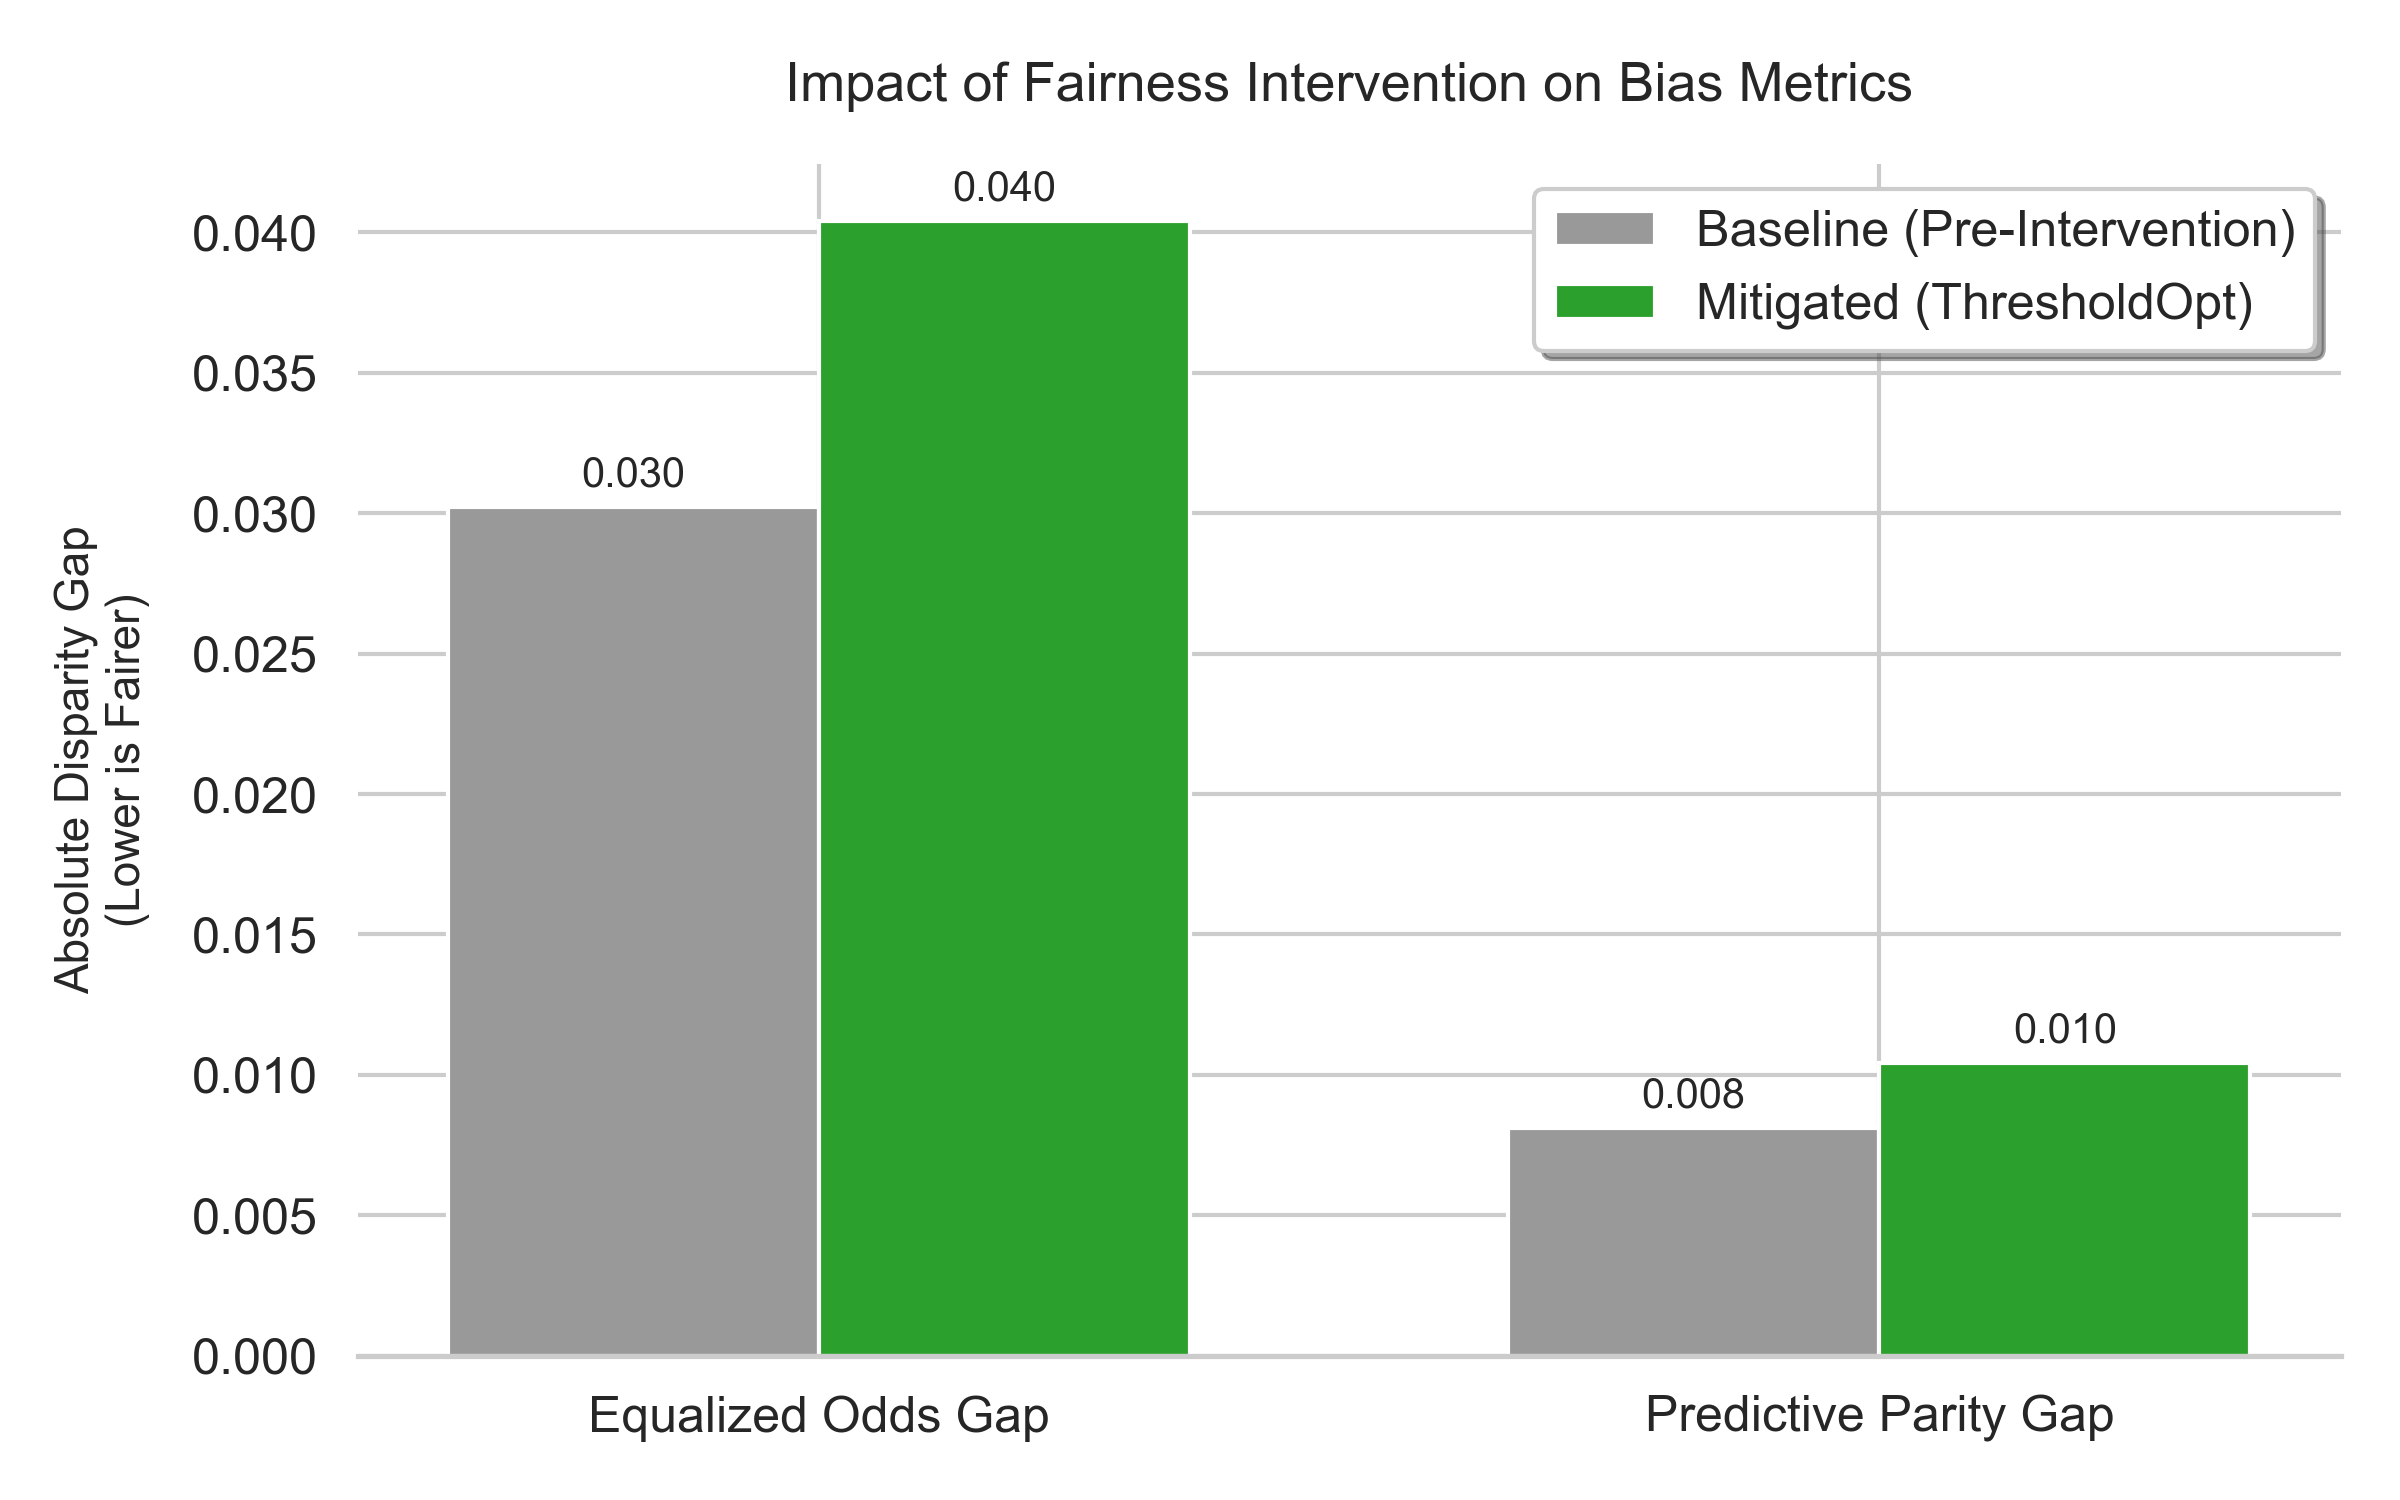
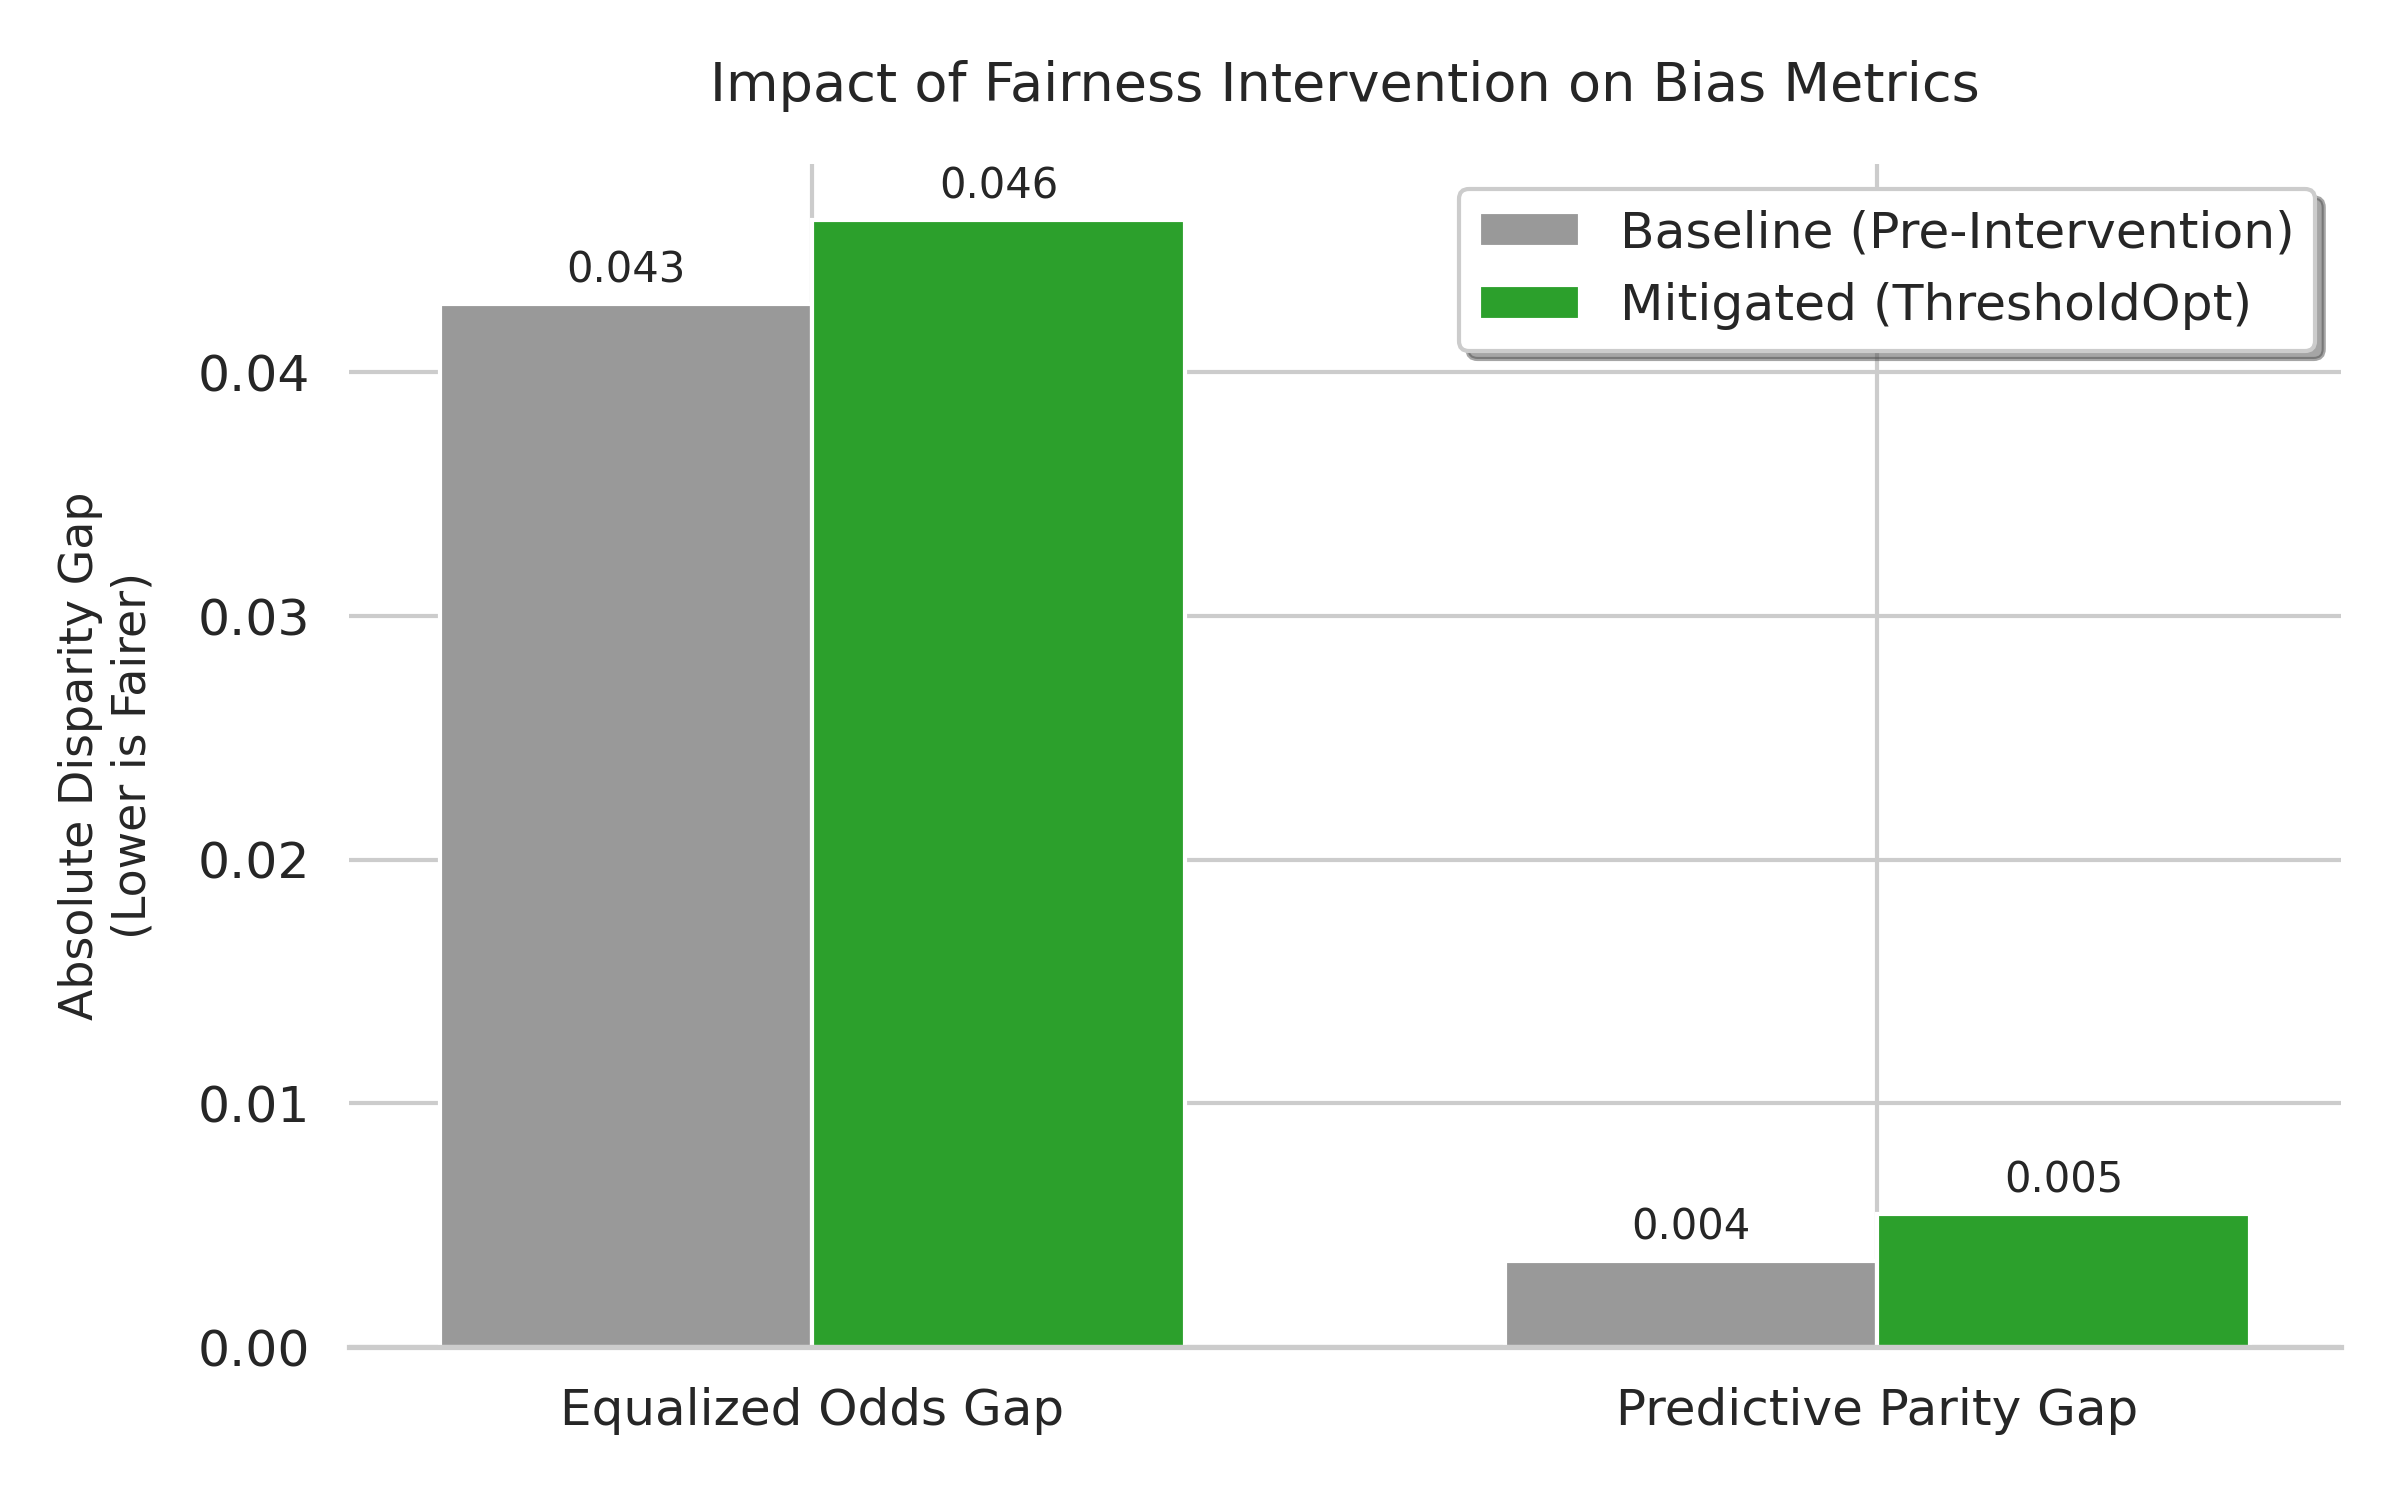
Updated Fairness pipeline so it can also load a cached XGBoost model after already running once , instead of having to re-train it every time

diff --git a/src/fairness/run_fairness.py b/src/fairness/run_fairness.py
@@ -6,6 +6,7 @@ and run the fairness evaluation and threshold optimization.
 """
 
 import sys
+import joblib
 from pathlib import Path
 
 # Add project root to Python path so `src` can be imported
@@ -36,9 +37,17 @@ def run_fairness_pipeline():
     data = preprocess_dataset(data)
     X_train, X_test, y_train, y_test, gender_train, gender_test = split_dataset(data)
 
-    print("\n[pipeline] STEP 2: MODEL TRAINING")
-    model = train_xgboost(X_train, y_train, save_dir=MODELS_DIR)
-    evaluate_performance(model, X_test, y_test, save_path=RESULTS_DIR / "baseline_performance.json")
+    print("\n[pipeline] STEP 2: MODEL TRAINING / LOADING")
+
+    model_path = MODELS_DIR / "best_xgboost.joblib"
+
+    if model_path.exists():
+        print(f"[pipeline] Loading existing model from {model_path}")
+        model = joblib.load(model_path)
+    else:
+        print("[pipeline] No saved model found. Training new model...")
+        model = train_xgboost(X_train, y_train, save_dir=MODELS_DIR)
+        evaluate_performance(model, X_test, y_test, save_path=RESULTS_DIR / "baseline_performance.json")
 
     print("\n[pipeline] STEP 3: FAIRNESS EVALUATION (BASELINE)")
     y_pred_baseline = model.predict(X_test)
